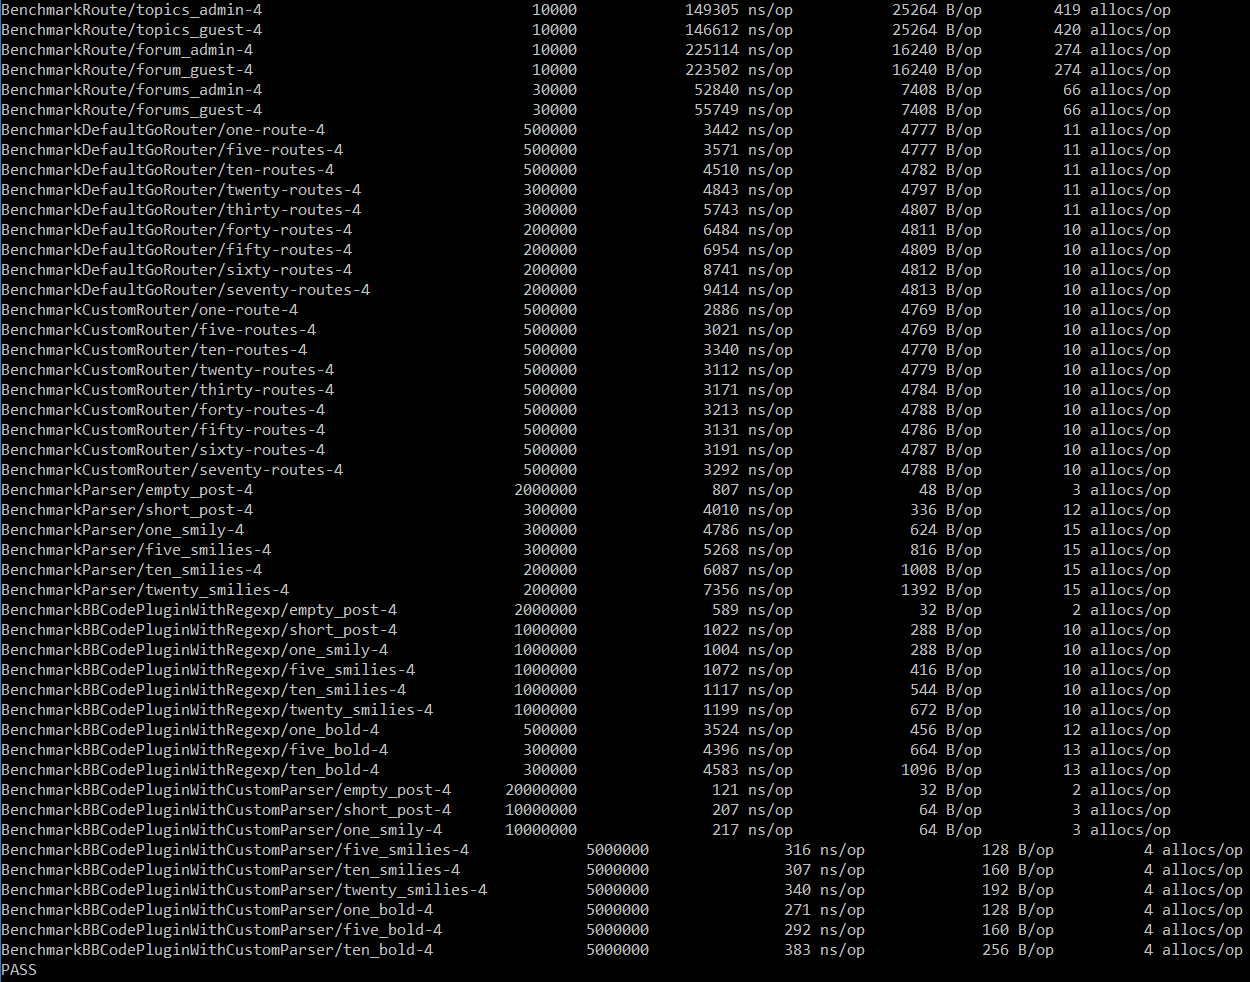
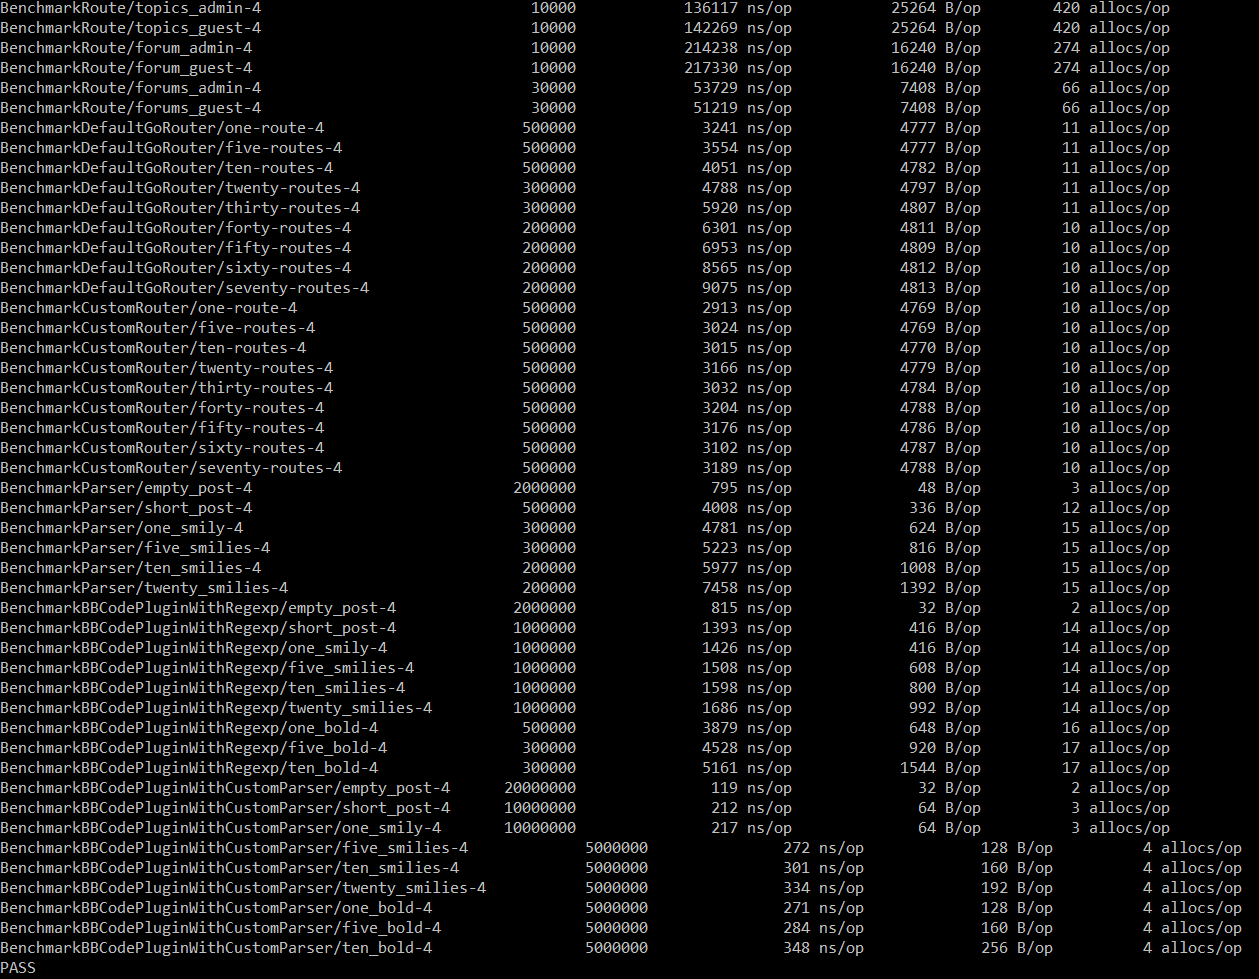
Made the BBCode plugin even faster. Added the strikethrough BBCode. Redid the Round 4 Benchmark. The regular expression parser now works properly. The underline Regex was missing, thus it was finishing faster than it should have.

diff --git a/plugin_bbcode.go b/plugin_bbcode.go
@@ -1,11 +1,10 @@
 package main
-//import "log"
-//import "fmt"
 import "regexp"
 
 var bbcode_bold *regexp.Regexp
 var bbcode_italic *regexp.Regexp
 var bbcode_underline *regexp.Regexp
+var bbcode_strikethrough *regexp.Regexp
 var bbcode_url *regexp.Regexp
 var bbcode_url_label *regexp.Regexp
 
@@ -18,6 +17,7 @@ func init_bbcode() {
 	bbcode_bold = regexp.MustCompile(`(?s)\[b\](.*)\[/b\]`)
 	bbcode_italic = regexp.MustCompile(`(?s)\[i\](.*)\[/i\]`)
 	bbcode_underline = regexp.MustCompile(`(?s)\[u\](.*)\[/u\]`)
+	bbcode_strikethrough = regexp.MustCompile(`(?s)\[s\](.*)\[/s\]`)
 	urlpattern := `(http|https|ftp|mailto*)(:??)\/\/([\.a-zA-Z\/]+)`
 	bbcode_url = regexp.MustCompile(`\[url\]` + urlpattern + `\[/url\]`)
 	bbcode_url_label = regexp.MustCompile(`(?s)\[url=` + urlpattern + `\](.*)\[/url\]`)
@@ -31,6 +31,8 @@ func bbcode_parse(data interface{}) interface{} {
 	msg := data.(string)
 	msg = bbcode_bold.ReplaceAllString(msg,"<b>$1</b>")
 	msg = bbcode_italic.ReplaceAllString(msg,"<i>$1</i>")
+	msg = bbcode_underline.ReplaceAllString(msg,"<u>$1</u>")
+	msg = bbcode_strikethrough.ReplaceAllString(msg,"<s>$1</s>")
 	msg = bbcode_url.ReplaceAllString(msg,"<a href=\"$1$2//$3\" rel=\"nofollow\">$1$2//$3</i>")
 	msg = bbcode_url_label.ReplaceAllString(msg,"<a href=\"$1$2//$3\" rel=\"nofollow\">$4</i>")
 	return msg
@@ -42,29 +44,29 @@ func bbcode_parse2(data interface{}) interface{} {
 	has_u := false
 	has_b := false
 	has_i := false
+	has_s := false
 	complex_bbc := false
 	for i := 0; i < len(msgbytes); i++ {
-		//log.Print(msgbytes[i])
-		//fmt.Println(string(msgbytes[i]))
-		//continue
 		if msgbytes[i] == '[' {
 			if msgbytes[i + 2] != ']' {
 				if msgbytes[i + 1] == '/' {
 					if msgbytes[i + 3] == ']' {
-						if msgbytes[i + 2] == 'u' {
-							msgbytes[i] = '<'
-							msgbytes[i + 3] = '>'
-							has_u = false
-						}
 						if msgbytes[i + 2] == 'b' {
 							msgbytes[i] = '<'
 							msgbytes[i + 3] = '>'
 							has_b = false
-						}
-						if msgbytes[i + 2] == 'i' {
+						} else if msgbytes[i + 2] == 'i' {
 							msgbytes[i] = '<'
 							msgbytes[i + 3] = '>'
 							has_i = false
+						} else if msgbytes[i + 2] == 'u' {
+							msgbytes[i] = '<'
+							msgbytes[i + 3] = '>'
+							has_u = false
+						} else if msgbytes[i + 2] == 's' {
+							msgbytes[i] = '<'
+							msgbytes[i + 3] = '>'
+							has_s = false
 						}
 						i += 3
 					} else {
@@ -74,20 +76,22 @@ func bbcode_parse2(data interface{}) interface{} {
 					complex_bbc = true
 				}
 			} else {
-				if msgbytes[i + 1] == 'u' {
-					msgbytes[i] = '<'
-					msgbytes[i + 2] = '>'
-					has_u = true
-				}
 				if msgbytes[i + 1] == 'b' {
 					msgbytes[i] = '<'
 					msgbytes[i + 2] = '>'
 					has_b = true
-				}
-				if msgbytes[i + 1] == 'i' {
+				} else if msgbytes[i + 1] == 'i' {
 					msgbytes[i] = '<'
 					msgbytes[i + 2] = '>'
 					has_i = true
+				} else if msgbytes[i + 1] == 'u' {
+					msgbytes[i] = '<'
+					msgbytes[i + 2] = '>'
+					has_u = true
+				} else if msgbytes[i + 1] == 's' {
+					msgbytes[i] = '<'
+					msgbytes[i + 2] = '>'
+					has_s = true
 				}
 				i += 2
 			}
@@ -95,12 +99,11 @@ func bbcode_parse2(data interface{}) interface{} {
 	}
 	
 	// There's an unclosed tag in there x.x
-	if has_i || has_u || has_b {
-		closer := []byte("</u></i></b>")
+	if has_i || has_u || has_b || has_s {
+		closer := []byte("</u></i></b></s>")
 		msgbytes = append(msgbytes, closer...)
 	}
 	msg = string(msgbytes)
-	//fmt.Println(msg)
 	
 	if complex_bbc {
 		msg = bbcode_url.ReplaceAllString(msg,"<a href=\"$1$2//$3\" rel=\"nofollow\">$1$2//$3</i>")

diff --git a/template_topics.go b/template_topics.go
@@ -1,7 +1,7 @@
 /* This file was automatically generated by the software. Please don't edit it as your changes may be overwritten at any moment. */
 package main
-import "io"
 import "strconv"
+import "io"
 
 func init() {
 	template_topics_handle = template_topics
